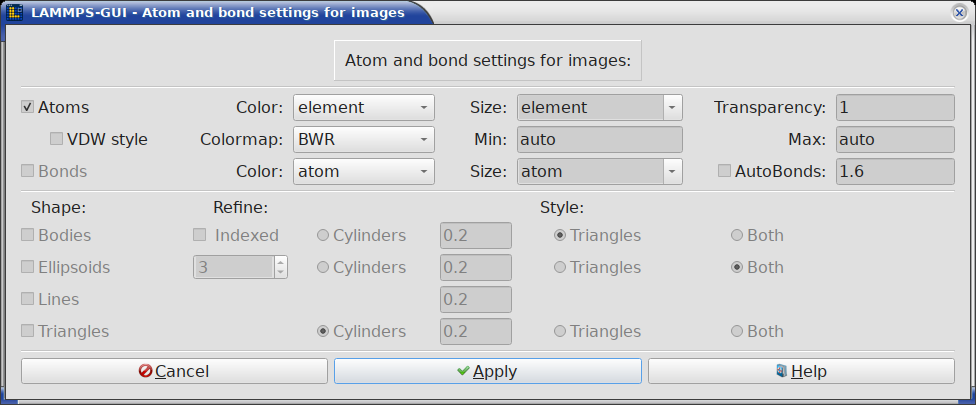
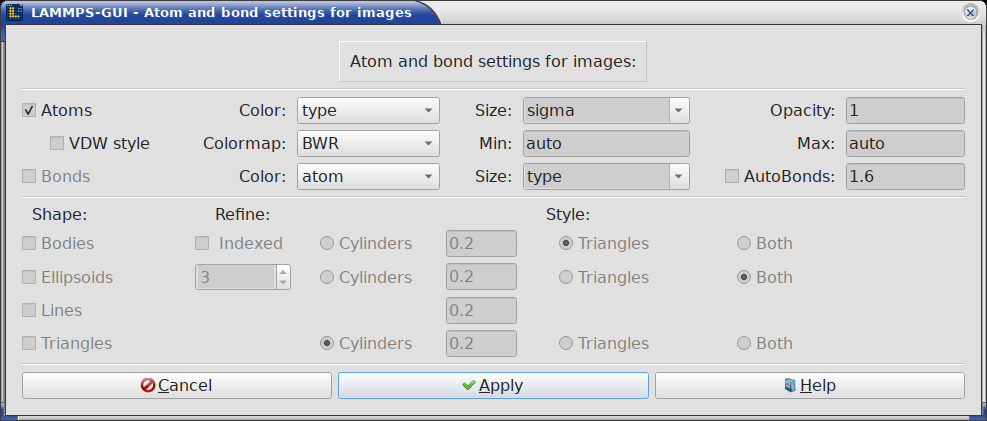
tweak layout of global settings dialog

diff --git a/src/imageviewer.cpp b/src/imageviewer.cpp
@@ -356,16 +356,16 @@ ImageViewer::ImageViewer(const QString &fileName, LammpsWrapper *_lammps, QWidge
     asize->setValidator(valid);
     asize->setObjectName("atomSize");
     asize->setToolTip("Set Atom size");
-    asize->setMinimumWidth(fsize.width()/4);
-    asize->setMaximumWidth(fsize.width()/2);
+    asize->setMinimumWidth(fsize.width() / 4);
+    asize->setMaximumWidth(fsize.width() / 2);
     asize->setEnabled(false);
     asize->hide();
     auto *bsize = new QLineEdit(QString::number(2.0 * atomSize));
     bsize->setValidator(valid);
     bsize->setObjectName("bondSize");
     bsize->setToolTip("Set Bond size");
-    bsize->setMinimumWidth(fsize.width()/4);
-    bsize->setMaximumWidth(fsize.width()/2);
+    bsize->setMinimumWidth(fsize.width() / 4);
+    bsize->setMaximumWidth(fsize.width() / 2);
     bsize->setEnabled(false);
     bsize->hide();
 
@@ -1017,7 +1017,7 @@ void ImageViewer::global_settings()
     auto *colorvalidator    = new QColorValidator;
     auto *transvalidator    = new QDoubleValidator(0.0, 1.0, 2);
     auto *fractionvalidator = new QDoubleValidator(0.00001, 5.0, 5, this);
-    QFontMetrics metrics(setview.fontMetrics());
+    auto fwidth             = setview.fontMetrics().size(Qt::TextSingleLine, "0.00000000").width();
 
     auto *layout          = new QGridLayout;
     int idx               = 0;
@@ -1026,42 +1026,48 @@ void ImageViewer::global_settings()
     layout->addWidget(title, idx++, 0, 1, MAXCOLS, Qt::AlignCenter);
     layout->addWidget(new QHline, idx++, 0, 1, MAXCOLS);
     for (int i = 0; i < MAXCOLS; ++i)
-        layout->setColumnStretch(i, 2);
-    layout->setColumnStretch(MAXCOLS - 1, 1);
+        layout->setColumnStretch(i, 5);
+    layout->setColumnStretch(0, 4);
+    layout->setColumnStretch(1, 4);
+    layout->setColumnStretch(MAXCOLS - 1, 3);
     layout->setSizeConstraint(QLayout::SetMinAndMaxSize);
 
     auto *axesbutton = new QCheckBox("Axes ", this);
     axesbutton->setCheckState(showaxes ? Qt::Checked : Qt::Unchecked);
+    axesbutton->setMaximumWidth(fwidth);
     layout->addWidget(axesbutton, idx, n++, 1, 1);
-    layout->addWidget(new QLabel("Location:"), idx, n++, 1, 1);
+    layout->addWidget(new QLabel("Location: "), idx, n++, 1, 1, Qt::AlignVCenter | Qt::AlignRight);
     auto *llbutton = new QRadioButton("Lower Left", this);
     llbutton->setChecked(axesloc == "yes");
-    layout->addWidget(llbutton, idx, n++, 1, 1);
-    auto *lrbutton = new QRadioButton("Lower Right", this);
-    lrbutton->setChecked(axesloc == "lowerright");
-    layout->addWidget(lrbutton, idx, n++, 1, 1);
+    layout->addWidget(llbutton, idx, n++, 1, 1, Qt::AlignCenter);
     auto *ulbutton = new QRadioButton("Upper Left", this);
     ulbutton->setChecked(axesloc == "upperleft");
-    layout->addWidget(ulbutton, idx, n++, 1, 1);
+    layout->addWidget(ulbutton, idx, n++, 1, 1, Qt::AlignCenter);
+    auto *lrbutton = new QRadioButton("Lower Right", this);
+    lrbutton->setChecked(axesloc == "lowerright");
+    layout->addWidget(lrbutton, idx, n++, 1, 1, Qt::AlignCenter);
     auto *urbutton = new QRadioButton("Upper Right", this);
     urbutton->setChecked(axesloc == "upperright");
-    layout->addWidget(urbutton, idx, n++, 1, 1);
+    layout->addWidget(urbutton, idx, n++, 1, 1, Qt::AlignCenter);
     auto *cbutton = new QRadioButton("Center", this);
     cbutton->setChecked(axesloc == "center");
     layout->addWidget(cbutton, idx++, n++, 1, 1);
 
     n = 1;
-    layout->addWidget(new QLabel("Length:"), idx, n++, 1, 1);
+    layout->addWidget(new QLabel("Length: "), idx, n++, 1, 1, Qt::AlignVCenter | Qt::AlignRight);
     auto *alval = new QLineEdit(QString::number(axeslen));
     alval->setValidator(fractionvalidator);
+    alval->setMaximumWidth(fwidth);
     layout->addWidget(alval, idx, n++, 1, 1);
-    layout->addWidget(new QLabel("Diameter:"), idx, n++, 1, 1);
+    layout->addWidget(new QLabel("Diameter: "), idx, n++, 1, 1, Qt::AlignVCenter | Qt::AlignRight);
     auto *adval = new QLineEdit(QString::number(axesdiam));
     adval->setValidator(fractionvalidator);
+    adval->setMaximumWidth(fwidth);
     layout->addWidget(adval, idx, n++, 1, 1);
-    layout->addWidget(new QLabel("Tansparency:"), idx, n++, 1, 1);
+    layout->addWidget(new QLabel("Opacity: "), idx, n++, 1, 1, Qt::AlignVCenter | Qt::AlignRight);
     auto *atval = new QLineEdit(QString::number(axestrans));
     atval->setValidator(transvalidator);
+    atval->setMaximumWidth(fwidth * 3 / 2);
     layout->addWidget(atval, idx++, n++, 1, 1);
     // disable and uncheck unsupported fields for older LAMMPS versions
     if (lammps->version() < 20260211) {
@@ -1083,19 +1089,23 @@ void ImageViewer::global_settings()
 
     auto *boxbutton = new QCheckBox("Box ", this);
     boxbutton->setCheckState(showbox ? Qt::Checked : Qt::Unchecked);
+    boxbutton->setMaximumWidth(fwidth);
     layout->addWidget(boxbutton, idx, n++, 1, 1);
-    layout->addWidget(new QLabel("Color:"), idx, n++, 1, 1);
+    layout->addWidget(new QLabel("Color: "), idx, n++, 1, 1, Qt::AlignVCenter | Qt::AlignRight);
     auto *bcolor = new QLineEdit(boxcolor);
     bcolor->setCompleter(colorcompleter);
     bcolor->setValidator(colorvalidator);
+    bcolor->setMaximumWidth(fwidth);
     layout->addWidget(bcolor, idx, n++, 1, 1);
-    layout->addWidget(new QLabel("Diameter:"), idx, n++, 1, 1);
+    layout->addWidget(new QLabel("Diameter: "), idx, n++, 1, 1, Qt::AlignVCenter | Qt::AlignRight);
     auto *bdiam = new QLineEdit(QString::number(boxdiam));
     bdiam->setValidator(fractionvalidator);
+    bdiam->setMaximumWidth(fwidth);
     layout->addWidget(bdiam, idx, n++, 1, 1);
-    layout->addWidget(new QLabel("Tansparency:"), idx, n++, 1, 1);
+    layout->addWidget(new QLabel("Opacity: "), idx, n++, 1, 1, Qt::AlignVCenter | Qt::AlignRight);
     auto *btrans = new QLineEdit(QString::number(boxtrans));
     btrans->setValidator(transvalidator);
+    btrans->setMaximumWidth(fwidth * 3 / 2);
     layout->addWidget(btrans, idx++, n++, 1, 1);
     if (lammps->version() < 20260211) {
         btrans->setEnabled(false);
@@ -1105,24 +1115,29 @@ void ImageViewer::global_settings()
 
     auto *subboxbutton = new QCheckBox("Subbox ", this);
     subboxbutton->setCheckState(showsubbox ? Qt::Checked : Qt::Unchecked);
+    subboxbutton->setMaximumWidth(fwidth);
     layout->addWidget(subboxbutton, idx, n++, 1, 1);
-    layout->addWidget(new QLabel("Diameter:"), idx, n++, 1, 1);
+    layout->addWidget(new QLabel("Diameter: "), idx, n++, 1, 1, Qt::AlignVCenter | Qt::AlignRight);
     auto *subdiam = new QLineEdit(QString::number(subboxdiam));
     subdiam->setValidator(fractionvalidator);
+    subdiam->setMaximumWidth(fwidth);
     layout->addWidget(subdiam, idx++, n++, 1, 1);
+    layout->addWidget(new QHline, idx++, 0, 1, MAXCOLS);
 
     n = 0;
 
     layout->addWidget(new QLabel("Background:"), idx, n++, 1, 1);
-    layout->addWidget(new QLabel("Bottomcolor:"), idx, n++, 1, 1);
+    layout->addWidget(new QLabel("Bottom: "), idx, n++, 1, 1, Qt::AlignVCenter | Qt::AlignRight);
     auto *bgcolor = new QLineEdit(backcolor);
     bgcolor->setCompleter(colorcompleter);
     bgcolor->setValidator(colorvalidator);
+    bgcolor->setMaximumWidth(fwidth);
     layout->addWidget(bgcolor, idx, n++, 1, 1);
-    layout->addWidget(new QLabel("Topcolor:"), idx, n++, 1, 1);
+    layout->addWidget(new QLabel("Topcolor: "), idx, n++, 1, 1, Qt::AlignVCenter | Qt::AlignRight);
     auto *b2color = new QLineEdit(backcolor2);
     b2color->setCompleter(colorcompleter);
     b2color->setValidator(colorvalidator);
+    b2color->setMaximumWidth(fwidth);
     layout->addWidget(b2color, idx++, n++, 1, 1);
     if (lammps->version() < 20260211) {
         b2color->setEnabled(false);
@@ -1131,34 +1146,42 @@ void ImageViewer::global_settings()
 
     n = 0;
     layout->addWidget(new QLabel("Quality:"), idx, n++, 1, 1);
-    auto *fsaa = new QCheckBox("FSAA ", this);
+    n++;
+    auto *fsaa = new QCheckBox("FSAA  ", this);
     fsaa->setCheckState(antialias ? Qt::Checked : Qt::Unchecked);
-    layout->addWidget(fsaa, idx, n++, 1, 1);
-    auto *ssao = new QCheckBox("SSAO ", this);
+    layout->addWidget(fsaa, idx, n++, 1, 1, Qt::AlignVCenter | Qt::AlignLeft);
+    auto *ssao = new QCheckBox("SSAO: ", this);
     ssao->setCheckState(usessao ? Qt::Checked : Qt::Unchecked);
-    layout->addWidget(ssao, idx, n++, 1, 1);
-    layout->addWidget(new QLabel("SSAO strength:"), idx, n++, 1, 1);
+    layout->addWidget(ssao, idx, n++, 1, 1, Qt::AlignVCenter | Qt::AlignRight);
     auto *aoval = new QLineEdit(QString::number(ssaoval));
     aoval->setValidator(new QDoubleValidator(0.0, 1.0, 5, this));
+    aoval->setMaximumWidth(fwidth);
     layout->addWidget(aoval, idx, n++, 1, 1);
-    layout->addWidget(new QLabel("Shiny:"), idx, n++, 1, 1);
+    layout->addWidget(new QLabel("Shiny: "), idx, n++, 1, 1, Qt::AlignVCenter | Qt::AlignRight);
     auto *shiny = new QLineEdit(QString::number(shinyfactor));
     shiny->setValidator(new QDoubleValidator(0.0, 1.0, 5, this));
+    shiny->setMaximumWidth(fwidth);
     layout->addWidget(shiny, idx++, n++, 1, 1);
 
     n = 0;
     layout->addWidget(new QLabel("Center:"), idx, n++, 1, 1);
-    layout->addWidget(new QLabel("X-direction:"), idx, n++, 1, 1);
+    layout->addWidget(new QLabel("X-direction: "), idx, n++, 1, 1,
+                      Qt::AlignVCenter | Qt::AlignRight);
     auto *xval = new QLineEdit(QString::number(xcenter));
     xval->setValidator(new QDoubleValidator(0.0, 1.0, 10, this));
+    xval->setMaximumWidth(fwidth);
     layout->addWidget(xval, idx, n++, 1, 1);
-    layout->addWidget(new QLabel("Y-direction:"), idx, n++, 1, 1);
+    layout->addWidget(new QLabel("Y-direction: "), idx, n++, 1, 1,
+                      Qt::AlignVCenter | Qt::AlignRight);
     auto *yval = new QLineEdit(QString::number(ycenter));
     yval->setValidator(new QDoubleValidator(0.0, 1.0, 10, this));
+    yval->setMaximumWidth(fwidth);
     layout->addWidget(yval, idx, n++, 1, 1);
-    layout->addWidget(new QLabel("Z-direction:"), idx, n++, 1, 1);
+    layout->addWidget(new QLabel("Z-direction: "), idx, n++, 1, 1,
+                      Qt::AlignVCenter | Qt::AlignRight);
     auto *zval = new QLineEdit(QString::number(zcenter));
     zval->setValidator(new QDoubleValidator(0.0, 1.0, 10, this));
+    zval->setMaximumWidth(fwidth);
     layout->addWidget(zval, idx++, n++, 1, 1);
 
     n = 0;
@@ -1253,9 +1276,7 @@ void ImageViewer::atom_settings()
     title->setLineWidth(1);
     title->setMargin(TITLE_MARGIN);
 
-    auto *transvalidator = new QDoubleValidator(0.0, 1.0, 2);
-    QFontMetrics metrics(setview.fontMetrics());
-
+    auto *transvalidator  = new QDoubleValidator(0.0, 1.0, 2);
     auto *layout          = new QGridLayout;
     int idx               = 0;
     int n                 = 0;
@@ -1319,11 +1340,11 @@ void ImageViewer::atom_settings()
         }
     }
     layout->addWidget(adiam, idx, n++, 1, 1);
-    layout->addWidget(new QLabel("Transparency: "), idx, n++, 1, 1,
-                      Qt::AlignVCenter | Qt::AlignRight);
+    layout->addWidget(new QLabel("Opacity: "), idx, n++, 1, 1, Qt::AlignVCenter | Qt::AlignRight);
     auto *atrans = new QLineEdit(QString::number(atomtrans));
     atrans->setValidator(transvalidator);
     layout->addWidget(atrans, idx++, n++, 1, 1);
+    if (lammps->version() < 20260211) atrans->setEnabled(false);
 
     n = 0;
 
@@ -2331,8 +2352,8 @@ void ImageViewer::createImage()
     }
 
     if (showbonds) {
-        auto *edit   = findChild<QLineEdit *>("bondSize");
-        auto *label  = findChild<QLabel *>("BondLabel");
+        auto *edit  = findChild<QLineEdit *>("bondSize");
+        auto *label = findChild<QLabel *>("BondLabel");
         if (edit && label) {
             if (atomcustom) {
                 if ((bonddiam != "type") && (atomdiam != "atom") && (atomdiam != "none")) {
@@ -2354,8 +2375,8 @@ void ImageViewer::createImage()
             }
         }
     } else {
-        auto *edit   = findChild<QLineEdit *>("bondSize");
-        auto *label  = findChild<QLabel *>("BondLabel");
+        auto *edit  = findChild<QLineEdit *>("bondSize");
+        auto *label = findChild<QLabel *>("BondLabel");
         if (edit && label) {
             edit->setEnabled(false);
             edit->hide();
